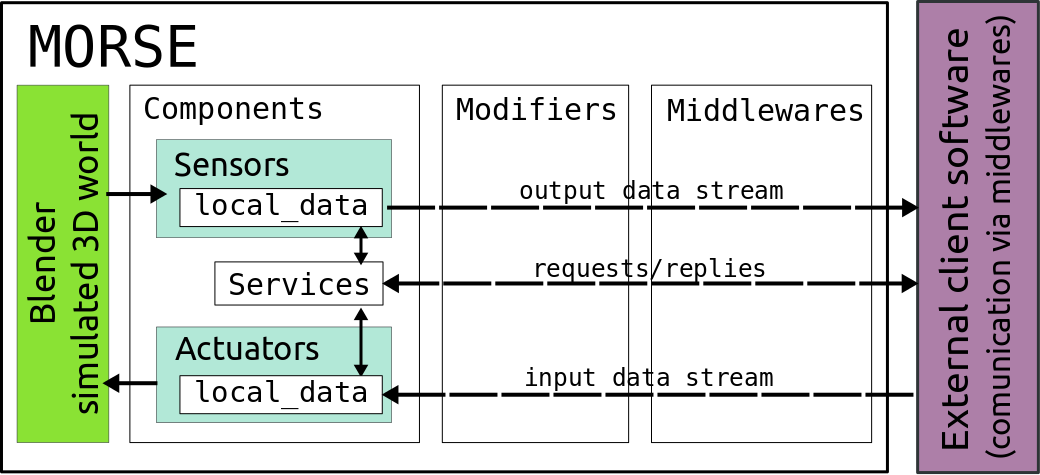
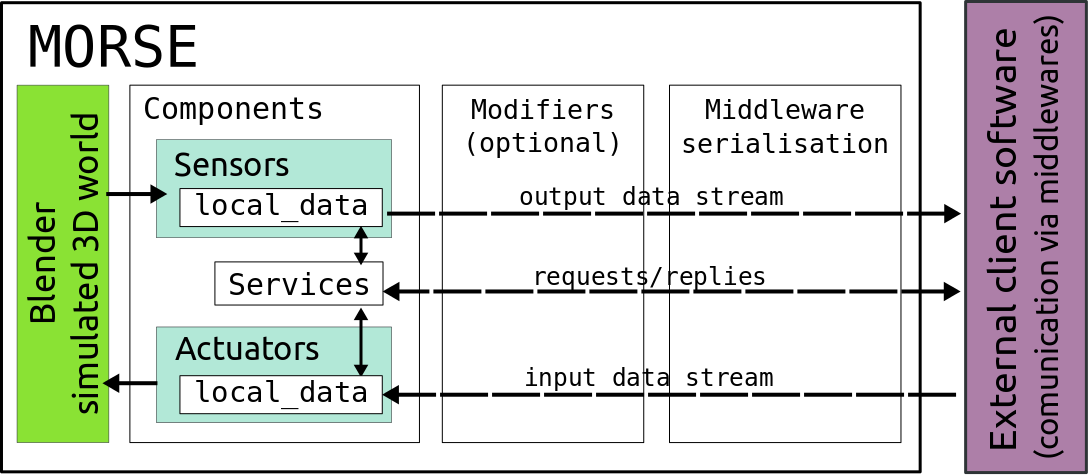
Some corrections, following Serge's comments

diff --git a/morse-article.tex b/morse-article.tex
@@ -107,8 +107,9 @@
   configurable components, varying levels of simulation realism, distributed
   multi-node simulation for complex scenes and a human avatar that can interact
   with the robots in the virtual environments.
-  We present in this paper the current state of the simulator as well as the
-  use cases where it has been used to validate several robotics experiments.
+  We present in this paper the current state of the simulator, highlighting
+  its unique features with examples of the use cases where it has been used to
+  validate several robotics experiments.
 \end{abstract}
 
 %%%%%%%%%%%%%%%%%%%%%%%%%%%%%%%%%%%%%%%%%%%%%%%%%%%%%%%%%%%%%%%%%%%%%%
@@ -197,7 +198,7 @@ A variety of communication tools allow each of the MORSE components to connect
 with external robotics software through middlewares.
 MORSE has support for some of the most commonly used robotics
 middlewares nowadays, including ROS \cite{ros-288}, Pocolibs
-(\serge{Add a reference}) and YARP \cite{metta|ars06}.
+\cite{Pocolibs|web} and YARP \cite{metta|ars06}.
 Other middlewares are constantly being added, mainly driven by the needs of new
 users. This process is simple, as existing middleware bindings can be used as a
 template for the new ones.
@@ -240,7 +241,7 @@ Fig.~\ref{fig:dataflow}.
 
 \begin{figure}[ht!]
 \centering
-    \includegraphics[width=0.8\textwidth]{pics/simulation_main_loop-may2012.png}
+    \includegraphics[width=0.7\textwidth]{pics/simulation_main_loop-may2012.png}
 \caption{Overview of the data flow in MORSE, between the simulated world
     in Blender and the external robotics software}
 \label{fig:dataflow}
@@ -356,18 +357,17 @@ bindings, modifiers and services for each component.
 %started, it will use the parameters given to the components to produce the data
 %in the simulation.
 
-MORSE has been chosen as the simulator platform for a french research
+MORSE has been chosen as the simulator platform for a French research
 robotic project called
 \emph{ANR-PROTEUS}\footnote{\url{http://anr-proteus.fr/}}, thanks to
 its versatility and the facility to integrate it with
 existing architectures.
-
 The PROTEUS project supports a model-driven engineering approach based on a
 domain-specific language and a robotic ontology\cite{Dhouib:2011zr} and aims at
-providing a toolchain for robotic development from modeling to software
+providing a toolchain for robotic development from modelling to software
 simulation and deployment on real robots. PROTEUS is based on open-source
-softwares like the Eclipse Modeling Project, the ROS middleware and MORSE
-simulator. Several robots modeling are currently under construction (Wifibot,
+softwares like the Eclipse Modelling Project, the ROS middleware and MORSE
+simulator. Several robot models are currently under construction (Wifibot,
 ECA Camelon, and Thales R-Trooper).
 
 %-----------------------------------------------%
@@ -378,10 +378,12 @@ Many components come in several versions, which produce more or less
 realistic behaviour, and can be chosen depending on the objective of the
 simulation and the treatment that will be given to the data.
 
-Land robots can have realistic wheel behaviour and physics, or be handled as
-rigid boxes sliding over the ground. For aerial and submarine robots, the
-physics are limited to collision detection, but they are not affected by
-gravity, and there is no simulation of air or wind currents.
+Land robots can have realistic wheel behaviour and physics, consisting of rigid
+bodies for the wheels attached by physics constraints to the chassis of the
+robot (Segway RMP 400 and Pioneer 3-DX). Alternatively, some robots are handled
+as rigid boxes sliding over the ground (iRobot ATRV). For aerial and
+submarine robots the physics are limited to collision detection, but they are
+not affected by gravity, and there is no simulation of air or wind currents.
 
 Some sensors provide the same kind of raw data as their real counterparts,
 which can then be processed to extract relevant information,
@@ -393,9 +395,9 @@ The clearest example of this are the cameras: the regular video camera
 generates renders of the Blender scene, and outputs images to be processed by
 software. This generates too much data, and can slow down the simulation when
 rendering for several cameras at once. A new sensor called the \emph{semantic
-camera} uses Blender functions to determine the names and location of the
-objects within the view frustum of the camera. It outputs this data and avoids
-two steps of processing, making the simulation (up to 100\%) faster and
+camera} uses Blender functions to determine the names and global 3D position of
+the objects within the view frustum of the camera. It outputs this data and
+avoids two steps of processing, making the simulation (up to 100\%) faster and
 avoiding image processing algorithms.
 
 The same is true for actuators, which offer the choice between controlling the
@@ -404,9 +406,9 @@ with linear and angular velocities, giving direct waypoint coordinates for
 destination (even using a very basic obstacle avoidance mechanism), or
 ``teleporting'' a robot to the desired location.
 
-This flexibility permits scientists to focus on specific problems, instead of
-juggling with many algorithms running at once.
-\serge{I don't understand the point here.}
+This flexibility permits scientists to focus on specific problems, by using
+abstract data and avoiding data processing steps that are necessary but not the
+main objective of the experiments.  \serge{I don't understand the point here.}
 
 For instance, researchers from ONERA use MORSE to evaluate online probabilistic
 decision-making on an autonomous UAV. In a first scenario~\cite{teichteil2011},
@@ -457,24 +459,24 @@ architectures: LAAS employs Segway RMP 400 land robots, using the \genom
 helicopters based on Orocos \cite{orocos2003}. The simulation uses Pocolibs to
 communicate with \genom, and YARP to talk with OROCOS.
 
-The use of simulation is particularly beneficial for this project, since the trials
-are done in a very specific environments, and require transporting the robots a
-considerable distance, always being dependant on the prevailing weather.
-Software evaluation can be done in MORSE regardless of the weather, and not
-having to plan long trips to the actual experimental site.
-Simulation also simplifies the execution of test runs, since they can be
-restarted from the initial point within seconds.  Future stages of the project
-require the coordination of larger teams of heterogeneous robots. The physical
-robots required for these stages are not currently available, but simulation
-permits for testing of these scenarios in advance.
+%The use of simulation is particularly beneficial for this project, since the trials
+%are done in a very specific environments, and require transporting the robots a
+%considerable distance, always being dependant on the prevailing weather.
+%Software evaluation can be done in MORSE regardless of the weather, and not
+%having to plan long trips to the actual experimental site.
+%Simulation also simplifies the execution of test runs, since they can be
+%restarted from the initial point within seconds.  Future stages of the project
+%require the coordination of larger teams of heterogeneous robots. The physical
+%robots required for these stages are not currently available, but simulation
+%permits for testing of these scenarios in advance.
 
 
 %-----------------------------------------------%
-\subsection{Component Overlays for Specific Architectures}
+\subsection{Component Overlays for Specific Software Architectures}
 \label{section:overlays}
 
-\serge{What is architecture here ? Existing software architecture,
-  hardware ?}
+%\serge{What is architecture here ? Existing software architecture,
+%  hardware ?}
 \serge{Component overlays could be seen as an implementation of the
   adapter Pattern: \url{https://en.wikipedia.org/wiki/Adapter_pattern}}
 
@@ -679,7 +681,7 @@ and human avatar).
 
 Further work is planned to increase the usefulness of MORSE in robotics
 experiments:
-When doing human-robot interface experiments, it is ideal to have a higher
+For human-robot-interaction experiments, it is ideal to have a higher
 immersion when using the human avatar.  A planned feature is to provide stereo
 images of the simulation to the user wearing special goggles. This can be done
 from Blender, with some separation of the images produced for the two eyes.
